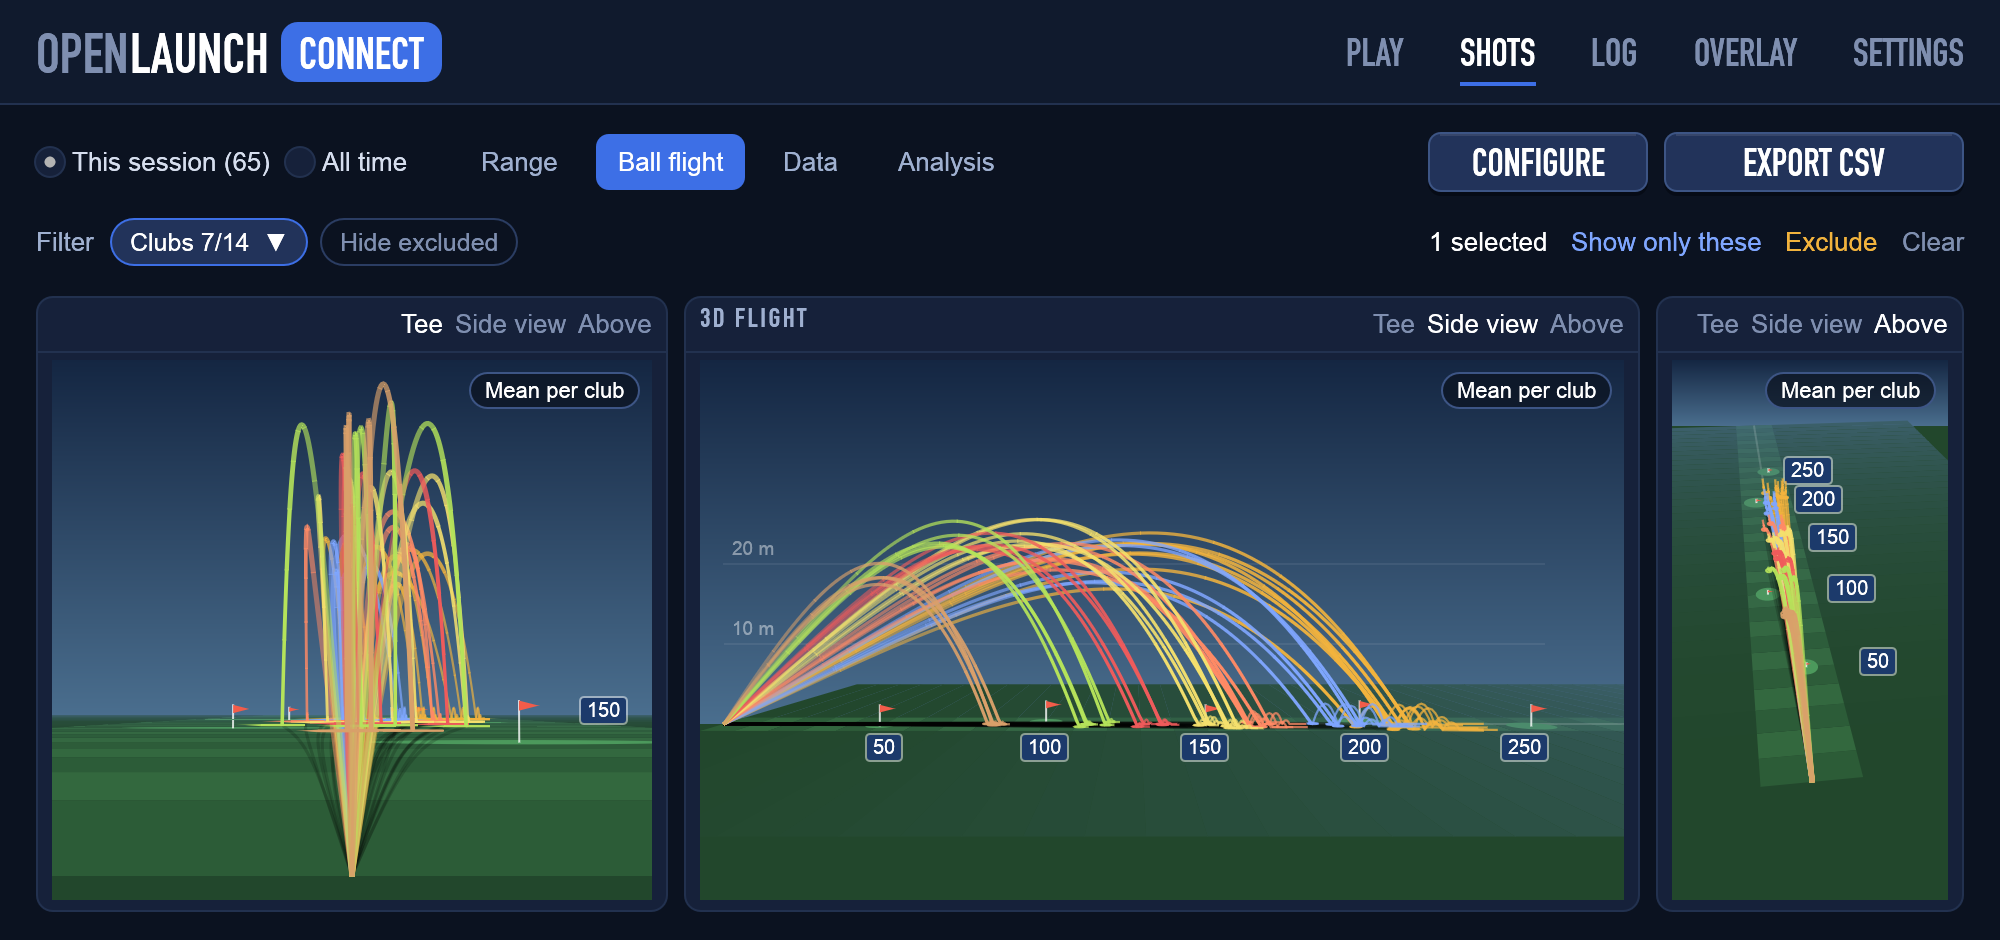
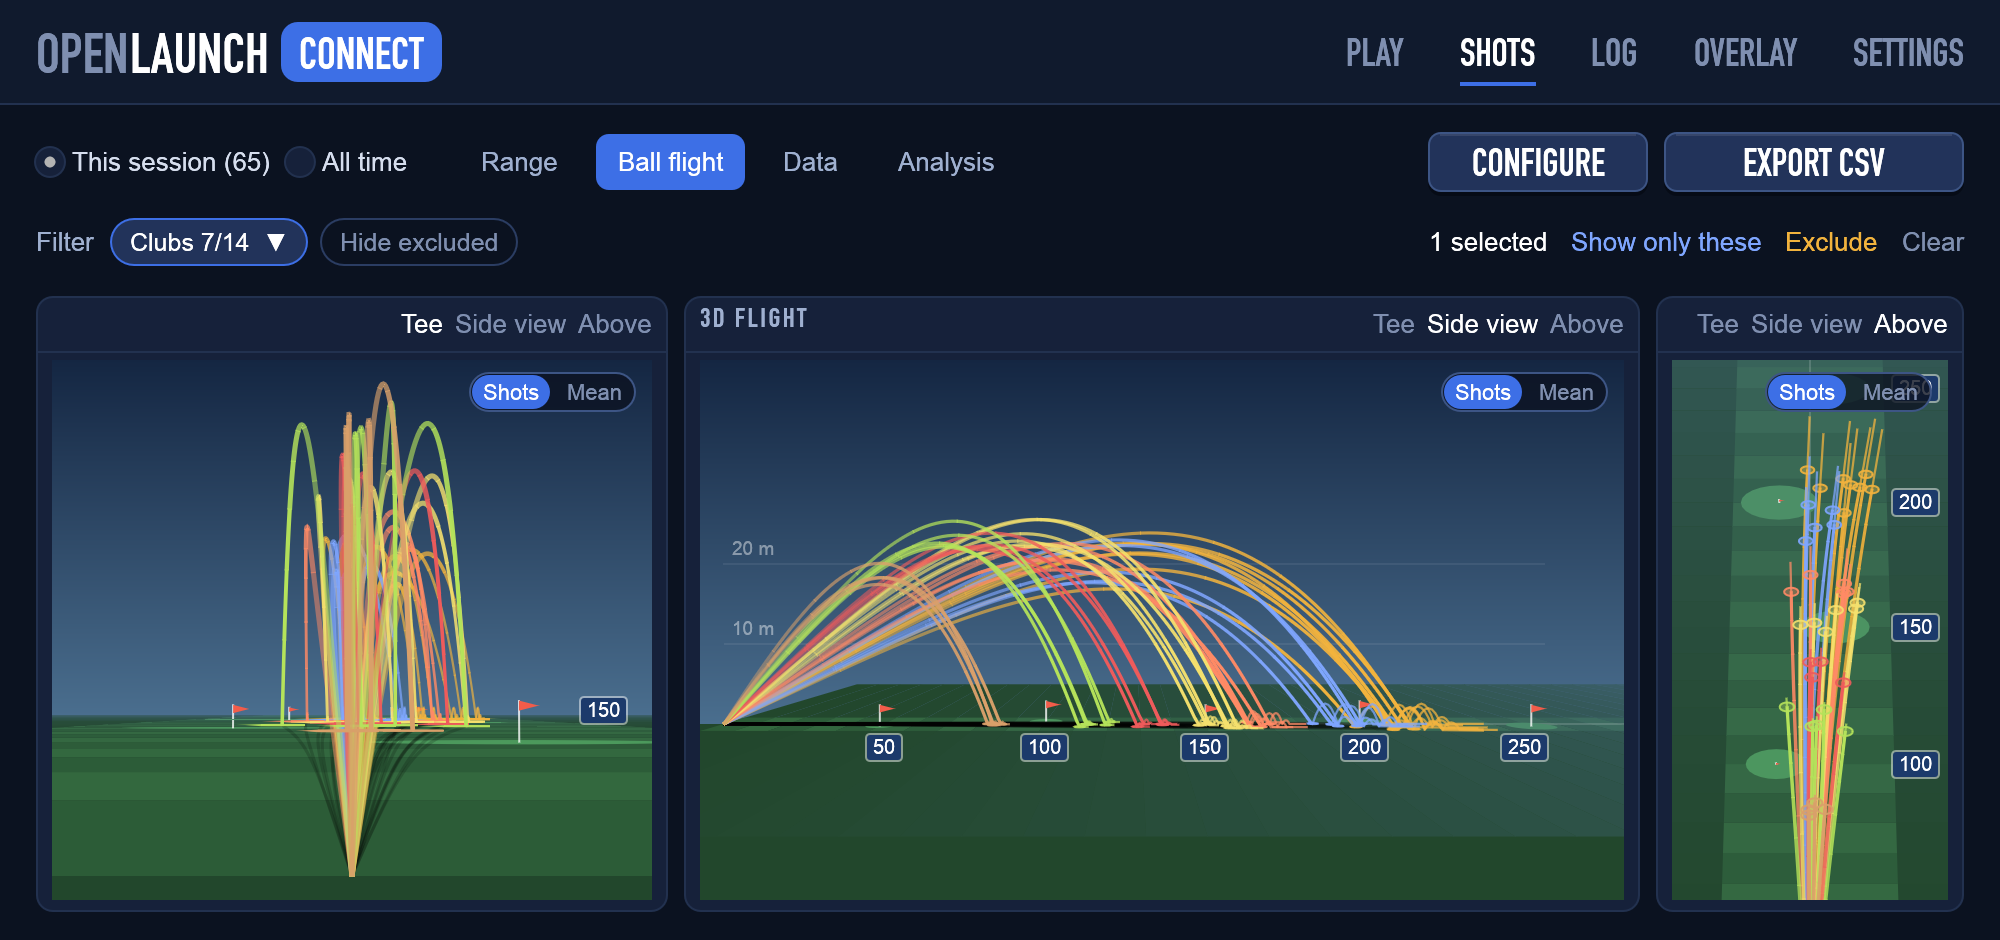
3D flight: working Shots/Mean switch, view from above onto the landing area
The switch was under the landing points' click area; it is registered
after it now (test clicks it). Shots and means are shown alternatively.
From above the camera looks steeply onto the landing area, fitted to the
shots' spread and stretched up to 8x across the tile; boards stay inside.

Changed region(s): [[0.837, 0.3702, 0.992, 0.9564], [0.713, 0.4011, 0.806, 0.4628], [0.217, 0.4011, 0.341, 0.4628]]

diff --git a/src/bin/openlaunch-connect/flight3d.rs b/src/bin/openlaunch-connect/flight3d.rs
@@ -124,17 +124,33 @@ pub(super) fn flight_view(ui: &mut egui::Ui, i: usize, tile: &Tile, ctx: &TileCt
     let far = ctx.paths.iter().map(|p| p.rest[2].max(p.air.last().map_or(0.0, |q| q[2]))).fold(100.0_f32, f32::max) * 1.08;
     let apex = ctx.paths.iter().flat_map(|p| p.air.iter().map(|q| q[1])).fold(10.0_f32, f32::max);
     let half = ctx.paths.iter().map(|p| p.rest[0].abs()).fold(15.0_f32, f32::max).max(far * 0.12).min(60.0) * 1.3;
+    // Where the balls come down: nearest landing and farthest stop.
+    let land_near = ctx.paths.iter().filter_map(|p| p.air.last().map(|q| q[2])).fold(f32::MAX, f32::min).min(far * 0.6);
+    let land_far = ctx.paths.iter().map(|p| p.rest[2]).fold(land_near + 20.0, f32::max);
     let view = match camera {
         Camera::Tee => View::new([0.0, 2.0, -12.0], [0.0, apex * 0.35, far * 0.6]),
         // From the right of the range, so the distance grows to the right.
         Camera::Side => View::new([far * 1.3, apex * 0.6, far * 0.5], [0.0, apex * 0.4, far * 0.5]),
-        Camera::Above => View::new([-far * 0.08, far * 0.6, -far * 0.3], [0.0, 0.0, far * 0.55]),
+        // Steeply from above onto where the balls land (the tee may be out of view).
+        Camera::Above => {
+            let span = (land_far - land_near).max(40.0) + 50.0;
+            let zc = (land_near + land_far) / 2.0;
+            View::new([0.0, span * 1.6, zc - span * 0.55], [0.0, 0.0, zc])
+        }
     };
-    // Fit what matters (the flights and the range's corners) into the tile, same scale both ways.
-    let mut fit: Vec<egui::Vec2> = ctx.paths.iter().flat_map(|p| p.air.iter().chain([&p.rest])).filter_map(|q| view.project(*q)).collect();
-    // The near corners of the range only from above: from the tee they are right below the camera.
-    let near = if camera == Camera::Above { [[-half, 0.0, 0.0], [half, 0.0, 0.0]] } else { [[0.0, 0.0, 6.0]; 2] };
-    fit.extend([[-half, 0.0, far], [half, 0.0, far], [0.0, apex, far * 0.5]].iter().chain(&near).filter_map(|q| view.project(*q)));
+    let mut fit: Vec<egui::Vec2> = Vec::new();
+    if camera == Camera::Above {
+        // The landing area with some room around it.
+        fit.extend(ctx.paths.iter().flat_map(|p| p.air.last().into_iter().chain([&p.rest])).filter_map(|q| view.project(*q)));
+        // Only as wide as the shots spread (plus a margin), so they spread out over the tile.
+        let (z0, z1) = ((land_near - 20.0).max(0.0), land_far + 15.0);
+        let w = ctx.paths.iter().flat_map(|p| p.air.last().into_iter().chain([&p.rest])).fold(8.0_f32, |m, q| m.max(q[0].abs())) + 6.0;
+        fit.extend([[-w, 0.0, z0], [w, 0.0, z0], [-w, 0.0, z1], [w, 0.0, z1]].iter().filter_map(|q| view.project(*q)));
+    } else {
+        // The flights and the range; the near corners would be right below the camera.
+        fit.extend(ctx.paths.iter().flat_map(|p| p.air.iter().chain([&p.rest])).filter_map(|q| view.project(*q)));
+        fit.extend([[-half, 0.0, far], [half, 0.0, far], [0.0, apex, far * 0.5], [0.0, 0.0, 6.0]].iter().filter_map(|q| view.project(*q)));
+    }
     let (lo, hi) = fit.iter().fold((vec2(f32::MAX, f32::MAX), vec2(f32::MIN, f32::MIN)), |(lo, hi), q| (lo.min(*q), hi.max(*q)));
     let inner = rect.shrink(12.0);
     let (sx, sy) = (inner.width() / (hi.x - lo.x).max(1e-3), inner.height() / (hi.y - lo.y).max(1e-3));
@@ -143,7 +159,8 @@ pub(super) fn flight_view(ui: &mut egui::Ui, i: usize, tile: &Tile, ctx: &TileCt
     let (kx, ky) = match camera {
         Camera::Tee => (3.0, 1.0),
         Camera::Side => (1.0, 2.5),
-        Camera::Above => (2.0, 1.0),
+        // From above the range may get a lot wider: the landing points spread out.
+        Camera::Above => (8.0, 1.0),
     };
     let base = sx.min(sy);
     let scale = vec2(sx.min(base * kx), sy.min(base * ky));
@@ -156,9 +173,10 @@ pub(super) fn flight_view(ui: &mut egui::Ui, i: usize, tile: &Tile, ctx: &TileCt
     let p = ui.painter_at(rect);
     draw_range(&p, rect, camera, far, half, apex, u, &to_screen);
 
-    // What to draw: single shots, or the mean per club with the shots faint behind.
+    // What to draw: the single shots, or only the mean flight per club.
     let any_selected = ctx.shown.iter().any(|s| ctx.selected.contains(&key(s)));
-    let mut tracks: Vec<Track> = ctx
+    let mut tracks: Vec<Track> = if mean { mean_tracks(ctx) } else { Vec::new() };
+    let singles: Vec<Track> = ctx
         .shown
         .iter()
         .zip(ctx.paths)
@@ -166,8 +184,6 @@ pub(super) fn flight_view(ui: &mut egui::Ui, i: usize, tile: &Tile, ctx: &TileCt
             let selected = ctx.selected.contains(&key(s));
             let weight = if s.excluded {
                 0.25
-            } else if mean {
-                0.22
             } else if any_selected && !selected {
                 0.5
             } else {
@@ -179,14 +195,13 @@ pub(super) fn flight_view(ui: &mut egui::Ui, i: usize, tile: &Tile, ctx: &TileCt
                 color: (ctx.color_of)(&s.club_code),
                 weight,
                 selected,
-                shadow: !mean && !s.excluded,
+                shadow: !s.excluded,
                 bold: false,
             }
         })
+        .filter(|_| !mean)
         .collect();
-    if mean {
-        tracks.extend(mean_tracks(ctx));
-    }
+    tracks.extend(singles);
     // Background first, the selection on top.
     tracks.sort_by(|a, b| (a.selected, a.weight).partial_cmp(&(b.selected, b.weight)).unwrap_or(std::cmp::Ordering::Equal));
 
@@ -205,24 +220,16 @@ pub(super) fn flight_view(ui: &mut egui::Ui, i: usize, tile: &Tile, ctx: &TileCt
             continue;
         }
         let Some(top) = path.air.iter().copied().max_by(|a, b| a[1].total_cmp(&b[1])) else { continue };
-        if let (Some(a), Some(b)) = (to_screen(top), to_screen([top[0], 0.0, top[2]])) {
+        // From above the height can't be seen: carry only.
+        if camera != Camera::Above
+            && let (Some(a), Some(b)) = (to_screen(top), to_screen([top[0], 0.0, top[2]]))
+        {
             p.extend(egui::Shape::dashed_line(&[a, b], Stroke::new(1.0, WHITE.gamma_multiply(0.7)), 3.0, 3.0));
             badge(&p, a + vec2(0.0, -10.0), &format!("{}* {:.0} {}", tr("Apex"), u.dist(f.apex), u.dist_unit()));
         }
         if let Some(land) = path.air.last().and_then(|q| to_screen(*q)) {
             badge(&p, land + vec2(0.0, 14.0), &format!("{}* {:.0} {}", tr("Carry"), u.dist(f.carry), u.dist_unit()));
         }
-    }
-
-    // Switch between single shots and the mean per club, top right in the view.
-    let label = tr("Mean per club");
-    let galley = p.layout_no_wrap(label.to_string(), FontId::proportional(11.0), WHITE);
-    let chip = Rect::from_min_size(pos2(rect.right() - galley.size().x - 22.0, rect.top() + 6.0), galley.size() + vec2(16.0, 6.0));
-    let resp = ui.interact(chip, egui::Id::new(("flight-mean", i)), Sense::click());
-    p.rect(chip, 9.0, if mean { ACCENT } else { PAGE.gamma_multiply(0.75) }, Stroke::new(1.0, if resp.hovered() { ICON } else { BUTTON_LINE }), StrokeKind::Inside);
-    p.galley(chip.min + vec2(8.0, 3.0), galley, if mean { WHITE } else { SOFT });
-    if resp.on_hover_cursor(egui::CursorIcon::PointingHand).clicked() {
-        edits.push(Edit::Averages(i, !mean));
     }
 
     // Landing points: hover shows the shot, a click selects it.
@@ -253,8 +260,32 @@ pub(super) fn flight_view(ui: &mut egui::Ui, i: usize, tile: &Tile, ctx: &TileCt
             })
         })
         .collect();
-    // No dots: the landing rings show where the balls came down.
-    draw_dots_quiet(ui, egui::Id::new(("flight", i)), rect, &dots)
+    // No dots: the landing rings show where the balls came down. None for the means.
+    let dots = if mean { Vec::new() } else { dots };
+    let clicked = draw_dots_quiet(ui, egui::Id::new(("flight", i)), rect, &dots);
+
+    // Shots or means, top right in the view (after the landing points, so it gets the clicks).
+    let options = [(false, tr("Shots")), (true, tr("Mean"))];
+    let font = FontId::proportional(11.0);
+    let widths: Vec<f32> = options.iter().map(|(_, l)| p.layout_no_wrap(l.to_string(), font.clone(), WHITE).size().x + 14.0).collect();
+    let total: f32 = widths.iter().sum();
+    let pill = Rect::from_min_size(pos2(rect.right() - total - 8.0, rect.top() + 6.0), vec2(total, 20.0));
+    p.rect(pill, 10.0, PAGE.gamma_multiply(0.8), Stroke::new(1.0, BUTTON_LINE), StrokeKind::Inside);
+    let mut x = pill.left();
+    for ((on, label), w) in options.into_iter().zip(widths) {
+        let r = Rect::from_min_size(pos2(x, pill.top()), vec2(w, pill.height()));
+        let resp = ui.interact(r, egui::Id::new(("flight-mode", i, on)), Sense::click());
+        if mean == on {
+            p.rect_filled(r.shrink(1.5), 9.0, ACCENT);
+        }
+        let color = if mean == on { WHITE } else if resp.hovered() { SOFT } else { MUTED };
+        p.text(r.center(), Align2::CENTER_CENTER, label, font.clone(), color);
+        if resp.on_hover_cursor(egui::CursorIcon::PointingHand).clicked() && mean != on {
+            edits.push(Edit::Averages(i, on));
+        }
+        x += w;
+    }
+    clicked
 }
 
 /// A small dark label with white text, centred on `at`.
@@ -429,7 +460,7 @@ fn draw_range(
         }
         let board_at = match camera {
             Camera::Side => to_screen([0.0, 0.0, dz]).map(|q| q + vec2(0.0, 12.0)),
-            Camera::Above => to_screen([half * 0.95, 0.0, dz]),
+            Camera::Above => to_screen([half * 0.5, 0.0, dz]).map(|q| q + vec2(16.0, 0.0)),
             Camera::Tee => to_screen([half * 0.55, 0.0, dz]).map(|q| q + vec2(0.0, -6.0)),
         };
         if let Some(at) = board_at.filter(|at| rect.contains(*at))
@@ -439,6 +470,8 @@ fn draw_range(
             let text = format!("{}", 50 * n);
             let galley = p.layout_no_wrap(text, FontId::proportional(10.0), WHITE);
             let r = Rect::from_center_size(at, galley.size() + vec2(8.0, 3.0));
+            // Kept inside the tile.
+            let r = r.translate(vec2((rect.right() - 4.0 - r.right()).min(0.0), 0.0));
             p.rect(r, 2.0, Color32::from_rgb(0x1c, 0x3a, 0x6b), Stroke::new(1.0, Color32::from_white_alpha(120)), StrokeKind::Inside);
             p.galley(r.min + vec2(4.0, 1.5), galley, WHITE);
             last_board = Some(at);

diff --git a/src/bin/openlaunch-connect/explorer.rs b/src/bin/openlaunch-connect/explorer.rs
@@ -63,6 +63,8 @@ pub(super) struct ExplorerState {
     confirm_remove: Option<usize>,
     /// Estimated flight of every shot seen, computed once.
     flights: HashMap<Key, FlightSummary>,
+    /// Where the tiles of the page shown were drawn (last frame).
+    tile_rects: Vec<Rect>,
     /// Flight paths for the 3D tiles, computed once when such a tile is shown.
     paths: HashMap<Key, Rc<FlightPath>>,
 }
@@ -523,6 +525,7 @@ impl App {
                 tile_ui(ui, rect, i, tile, ex.arrange, page_tiles.len(), &ctx, focus, &mut edits, &mut clicked);
                 rects.push(rect);
             }
+            ex.tile_rects = rects.clone();
             if ex.arrange {
                 drag_tiles(ui, &rects, &page_tiles, &mut edits);
                 if let Some(&(c, r, _, _)) = spots.last() {
@@ -1742,6 +1745,40 @@ mod tests {
         harness.step();
         let kinds: Vec<TileKind> = harness.state().saved.explorer.pages[0].tiles.iter().map(|t| t.kind).collect();
         assert_eq!(kinds, [TileKind::Dispersion, TileKind::Table, TileKind::Flight]);
+    }
+
+    /// The *Shots | Mean* switch in a 3D tile takes the click (not the landing points under it).
+    #[test]
+    fn flight_tile_switches_to_the_means() {
+        use egui_kittest::Harness;
+
+        openlaunch_connect::settings::SAVE.store(false, std::sync::atomic::Ordering::Relaxed);
+        let settings = Settings { overlay: OverlayPos::Off, ..Settings::default() };
+        let (tx, _rx) = std::sync::mpsc::channel();
+        let mut harness = Harness::builder().with_size(BASE_SIZE).build_eframe(|cc| {
+            setup_style(&cc.egui_ctx);
+            App::new(settings, tx)
+        });
+        harness.state_mut().page = Page::Shots;
+        harness.state_mut().remember_size = false;
+        harness.state_mut().show_overlay = false;
+        harness.state_mut().explorer.page = 1; // Ball flight: 3D from the tee (2×2) first
+        for _ in 0..3 {
+            harness.step();
+        }
+        // The switch sits at the top right of the first tile's view, "Mean" on its right.
+        let tile = harness.state().explorer.tile_rects.first().copied().expect("tile drawn");
+        let at = pos2(tile.right() - 30.0, tile.top() + 28.0 + 4.0 + 16.0);
+        for event in [
+            egui::Event::PointerMoved(at),
+            egui::Event::PointerButton { pos: at, button: egui::PointerButton::Primary, pressed: true, modifiers: Default::default() },
+            egui::Event::PointerButton { pos: at, button: egui::PointerButton::Primary, pressed: false, modifiers: Default::default() },
+        ] {
+            harness.input_mut().events.push(event);
+            harness.step();
+        }
+        harness.step();
+        assert!(harness.state().saved.explorer.pages[1].tiles[0].averages, "switched to the means");
     }
 
     #[test]

diff --git a/src/i18n.rs b/src/i18n.rs
@@ -200,7 +200,7 @@ fn de(en: &str) -> Option<&'static str> {
         "Language" => "Sprache",
         "System" => "System",
         "Interface" => "Oberfläche",
-        "Mean per club" => "Mittel je Schläger",
+        "Mean" => "Mittel",
         "Shape" => "Schlagform",
         "Straight" => "Gerade",
         "Impact from the side" => "Treffmoment Seite",

diff --git a/CHANGELOG.md b/CHANGELOG.md
@@ -10,8 +10,9 @@ The format is based on [Keep a Changelog](https://keepachangelog.com/en/1.1.0/),
 - **3D flight tile** looks like a driving range now: sky with haze at the horizon, mown fairway, target greens with
   flags and distance boards every 50 m (yd), height lines in the side view. The flights cast shadows, fade in from the
   tee and get thinner further away; each landing is marked with a ring, followed by its bounces and roll. A selected
-  shot glows and shows its apex and carry. *Mean per club* draws one bold mean flight per club with the single shots
-  faint behind.
+  shot glows and shows its apex and carry. A switch *Shots / Mean* shows the single shots or one bold mean flight
+  per club. From above the camera looks down onto the landing area, stretched across the tile so the landing points
+  spread out.
 
 ## [1.1.0] – 2026-10-21
 
